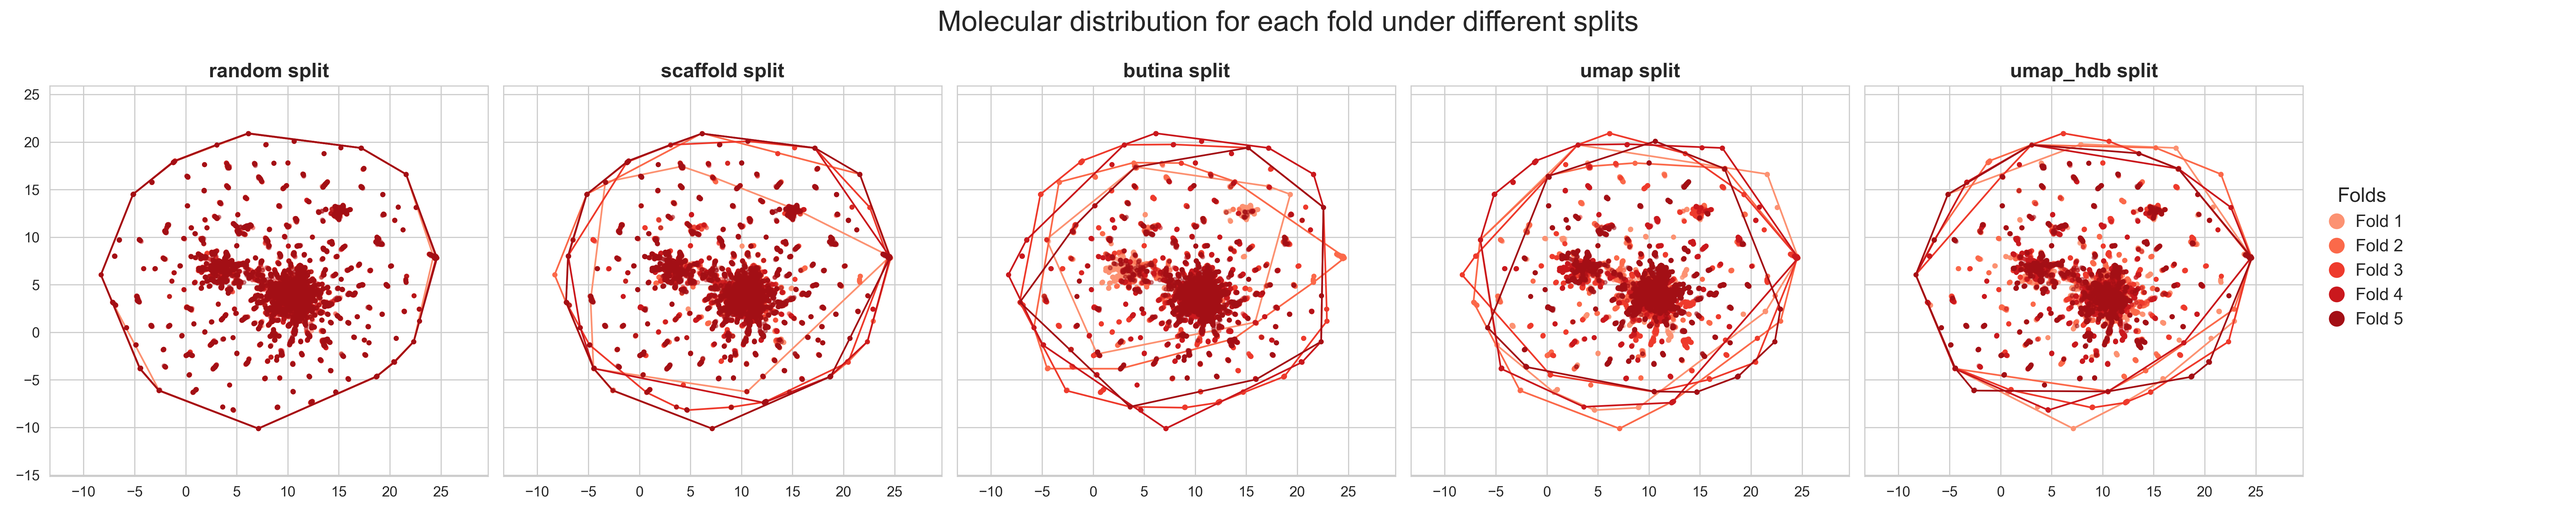
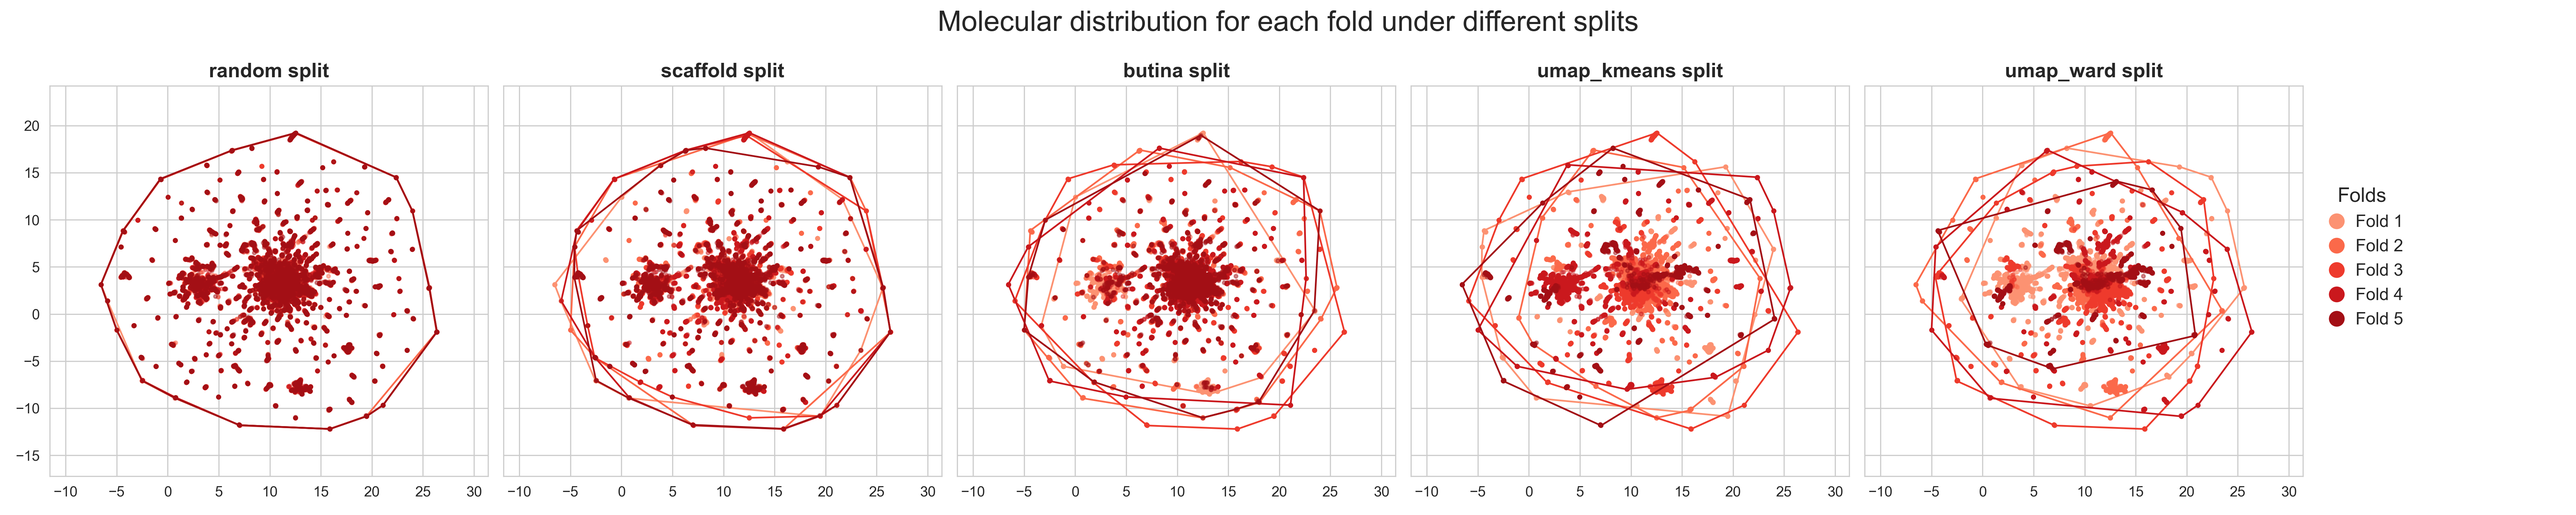
updating comments and paths to data visualizations post splits

diff --git a/p1_preprocessing/4 - Data splitting/1 - splitting_scripts/splitting_methods.py b/p1_preprocessing/4 - Data splitting/1 - splitting_scripts/splitting_methods.py
@@ -5,7 +5,7 @@ validation, and test sets.
 Goal:
 Build chemically realistic cross-validation folds for virtual screening evaluation on ChEMBL P. falciparum IC50 data 
 (~40k pIC50 values for ~20k molecules). Study which splitting methods increase train-test dissimilarity to better reflect 
-real-world prospective screening scenarios where models encounter molecules unlike those in training data.
+real-world prospective screening scenarios where models encounter molecules unlike those in training data. (1)
 
 K-fold scheme and set sizes
 This script creates 5-fold cross-validation splits with train/val/test sets per fold. 
@@ -22,25 +22,25 @@ the consistency and robustness of each splitting method.
 Why five splitting methods?
 Random — Computationally efficient baseline that assigns data points to splits purely at random, without regard to the
     chemical similarity, diversity, or scaffold of molecules. As a result, it carries a higher probability of placing chemically
-    similar compounds across train/test sets compared to other chemically aware splitting methods.
+    similar compounds across train/test sets compared to other chemically aware splitting methods. (2)
 Scaffold (Bemis-Murcko) — Extracts the Bemis-Murcko scaffold (core ring system) from each molecule and assigns all molecules
     sharing identical scaffolds to the same split, preventing scaffold leakage between train and test sets. However, this
     method treats structurally similar scaffolds as completely distinct and fails to account for molecules with different
-    scaffolds that share similar pharmacophores or binding modes, allowing chemical similarity to persist across splits.
+    scaffolds that share similar pharmacophores or binding modes, allowing chemical similarity to persist across splits. (1)(3)
 Butina (Tanimoto coefficient on Morgan fingerprints) — Creates clusters of molecules based on fingerprint similarity using a
     distance threshold, keeping structurally related compounds within the same split to reduce near-neighbor leakage compared
     to scaffold splitting. However, cluster quality depends heavily on the choice of similarity threshold, and the method may
-    struggle with boundary cases where molecules fall near cluster edges or in sparse regions of chemical space.
+    struggle with boundary cases where molecules fall near cluster edges or in sparse regions of chemical space. (1)(3)
 UMAP + K-means clustering — Applies UMAP dimensionality reduction to Morgan fingerprints using Jaccard distance, then performs
     K-means clustering on the low-dimensional embedding to partition molecules into a predetermined number of groups. This
     approach creates compact, spherical clusters in the embedding space and provides deterministic cluster assignments, but
     requires specifying the number of clusters and may struggle with irregular cluster shapes or varying cluster densities
-    in chemical space.
+    in chemical space. (1)(2)(4)
 UMAP + Ward clustering — Applies UMAP dimensionality reduction to Morgan fingerprints using Jaccard distance, then performs
     hierarchical agglomerative clustering on the low-dimensional embedding to create chemically coherent groups. This two-step
     process preserves both local and global chemical relationships in the embedding space, yielding larger distribution shifts.
      However, performance depends on UMAP hyperparameter tuning (n_neighbors, min_dist) and the method requires determining 
-     the final number of clusters from the hierarchical structure.
+     the final number of clusters from the hierarchical structure. (2)(4)
 
 All methods use established default parameters: Morgan fingerprints (radius=2, 2048 bits), Butina cutoff=0.6, 
 UMAP (n_neighbors=25, min_dist=0.1, Jaccard metric), and pIC50 ≥ 6.0 activity threshold.
@@ -51,24 +51,25 @@ Dataset-specific constraints that guided this design:
 - Multiple strain measurements: When the same molecule has been tested across multiple strains, all of their measurements are 
     kept in the same fold, allowing models to learn from the full biological activity profile of each compound and make robust 
     predictions despite inherent experimental variability. This reflects real-world scenarios where compounds show activity 
-    variation across conditions
+    variation across conditions.
 - Class prevalence: While real virtual screening campaigns often have very low hit rates (many more inactives), this ChEMBL 
     dataset shows a relatively balanced pIC50 distribution (with slightly more inactive molecules). This study has not
     artificially force class imbalance in the splitting step. Instead, it approximates deployment difficulty via 
-    chemistry-aware splits.
+    chemistry-aware splits. (5)
 
 Outputs and quality control for each split method and fold:
 - Files: train/val/test CSVs per fold
 - Logging: Set sizes, active counts (pIC50 ≥ 6.0), mean max-Tanimoto(test→train) as difficulty metric
-- Expected ranking: Random < Scaffold < Butina < UMAP+K-means < UMAP+Ward (increasing difficulty)
+- Expected ranking: Random < Scaffold < Butina < UMAP+K-means < UMAP+Ward
 
 References (code/data in paper):
-1)“Comprehensive study showing UMAP > Butina > Scaffold > Random in realism and why ROC AUC can mislead virtual screenings: 
-https://jcheminf.biomedcentral.com/articles/10.1186/s13321-021-00576-2; 
-GitHub: https://github.com/Rong830/UMAP_split_for_VS archived in Zenodo: https://zenodo.org/records/14736486
+1)“Comprehensive study showing UMAP > Butina > Scaffold > Random in realism of train-test splits for virtual screening”
+https://jcheminf.biomedcentral.com/articles/10.1186/s13321-025-01039-8; 
 2) https://github.com/rdkit
-3) https://umap-learn.readthedocs.io/en/latest/faq.html
-4) https://arxiv.org/pdf/2406.00873
+3) https://arxiv.org/pdf/2406.00873
+4) https://umap-learn.readthedocs.io/en/latest/faq.html
+5) https://pubs.acs.org/doi/10.1021/acsmedchemlett.4c00093
+
 """
 
 # conda activate molml

diff --git a/p1_preprocessing/4 - Data splitting/3 - splits_data_visualization/global_clustering_per_split/glob_cluster_vis.py b/p1_preprocessing/4 - Data splitting/3 - splits_data_visualization/global_clustering_per_split/glob_cluster_vis.py
@@ -1,3 +1,11 @@
+''' Description: This script generates a visualization of the global clustering of test molecules across different data splits
+and folds using UMAP on ECFP4 fingerprints.
+
+Preconditions:
+1) "split_data" 
+2) random, scaffold, butina, umap_kmeans, umap_ward csv files for folds 1-5 from step 2 in "Data splitting"
+'''
+
 from pathlib import Path
 import numpy as np, pandas as pd
 from rdkit import Chem, DataStructs
@@ -7,12 +15,12 @@ from scipy.spatial import ConvexHull
 from matplotlib.lines import Line2D 
 
 # Directories
-BASE = Path("p2_models/data/splits")
+BASE = Path("./p1_preprocessing/4 - Data splitting/2 - split_data")
 METHODS = ["random","scaffold","butina","umap_kmeans","umap_ward"]
 FOLDS = [1,2,3,4,5]
 SMI_COL = "Smiles"
 N_BITS, RADIUS = 2048, 2
-OUT = Path("p2_models/data/figures/split_folds_embedding.png")
+OUT = Path("./p1_preprocessing/4 - Data splitting/3 - splits_data_visualization/global_clustering_per_split/split_folds_embedding.png")
 
 # Helper for finding csv;s
 def find_file(dirp, method, fold, split):
@@ -109,8 +117,7 @@ legend_handles = [
            marker='o', linestyle='None', markersize=10,
            markerfacecolor=palette[f-1], markeredgecolor=palette[f-1],
            label=f"Fold {f}")
-    for f in FOLDS
-]
+    for f in FOLDS]
 
 # Legend
 fig.legend(
@@ -124,11 +131,10 @@ fig.legend(
     handletextpad=0.2,
     labelspacing=0.5,
     prop={"size": 12},
-    title_fontsize=14
-)
+    title_fontsize=14)
 
 
-# Overall figure
+# Suptitle, layout, save
 fig.suptitle("Molecular distribution for each fold under different splits", y=0.98, fontsize=20)
 plt.tight_layout(rect=[0, 0, 0.90, 0.99])
 OUT.parent.mkdir(parents=True, exist_ok=True)

diff --git a/p1_preprocessing/4 - Data splitting/1 - splitting_scripts/tidying_before_split.py b/p1_preprocessing/4 - Data splitting/1 - splitting_scripts/tidying_before_split.py
@@ -1,3 +1,6 @@
+# Not required! 
+# This script add potency bins, frequency counts, check duplicates
+
 from pathlib import Path
 import pandas as pd
 
@@ -5,7 +8,7 @@ import pandas as pd
 inputcsv  = Path("./pp.csv")
 outputcsv = Path("./pp_tidy.csv")
 essentials = ["Smiles", "Strains", "pIC50"] 
-# ---------------------------------------------------------------------------
+
 def main() -> None:
     # Load
     if not inputcsv.exists():
@@ -34,8 +37,6 @@ def main() -> None:
     dup_count = dup_mask.sum()
     if dup_count:
         print(f"Warning: {dup_count} duplicated molecule-strain rows kept.")
-        # Optional: uncomment next line to drop duplicates, keeping first
-        # df = df[~dup_mask]
 
     # Save
     df.to_csv(outputcsv, index=False)

diff --git a/p1_preprocessing/4 - Data splitting/3 - splits_data_visualization/tanimoto_violin_plots/tanimoto_violin_visual.py b/p1_preprocessing/4 - Data splitting/3 - splits_data_visualization/tanimoto_violin_plots/tanimoto_violin_visual.py
@@ -1,3 +1,11 @@
+''' Description: This script generates violin and box plots to visualize the distribution of maximum Tanimoto similarities
+between test molecules and their nearest neighbors in the training set across different data splitting methods and folds.
+
+Preconditions:
+1) "split_data" directory with subdirectories for each splitting method containing CSV files for folds 1-5 from step 2 
+"Data splitting"
+'''
+
 # Conda activate molml 
 # Imports
 from pathlib import Path

diff --git a/p1_preprocessing/4 - Data splitting/3 - splits_data_visualization/splitting_method_folds_plot/splits_data_vis.py b/p1_preprocessing/4 - Data splitting/3 - splits_data_visualization/splitting_method_folds_plot/splits_data_vis.py
@@ -1,5 +1,5 @@
 """
-Data Split Graphic, illustrates:
+This script generates a graphic which illustrates an overview of the data splitting method used:
 - 5 splits (K = 1, 2, 3, 4, 5)
 - Each split shows 5 equal blocks (each 20% of total data)
 - The designated test block shifts from block 5 down to 1 across K fold
